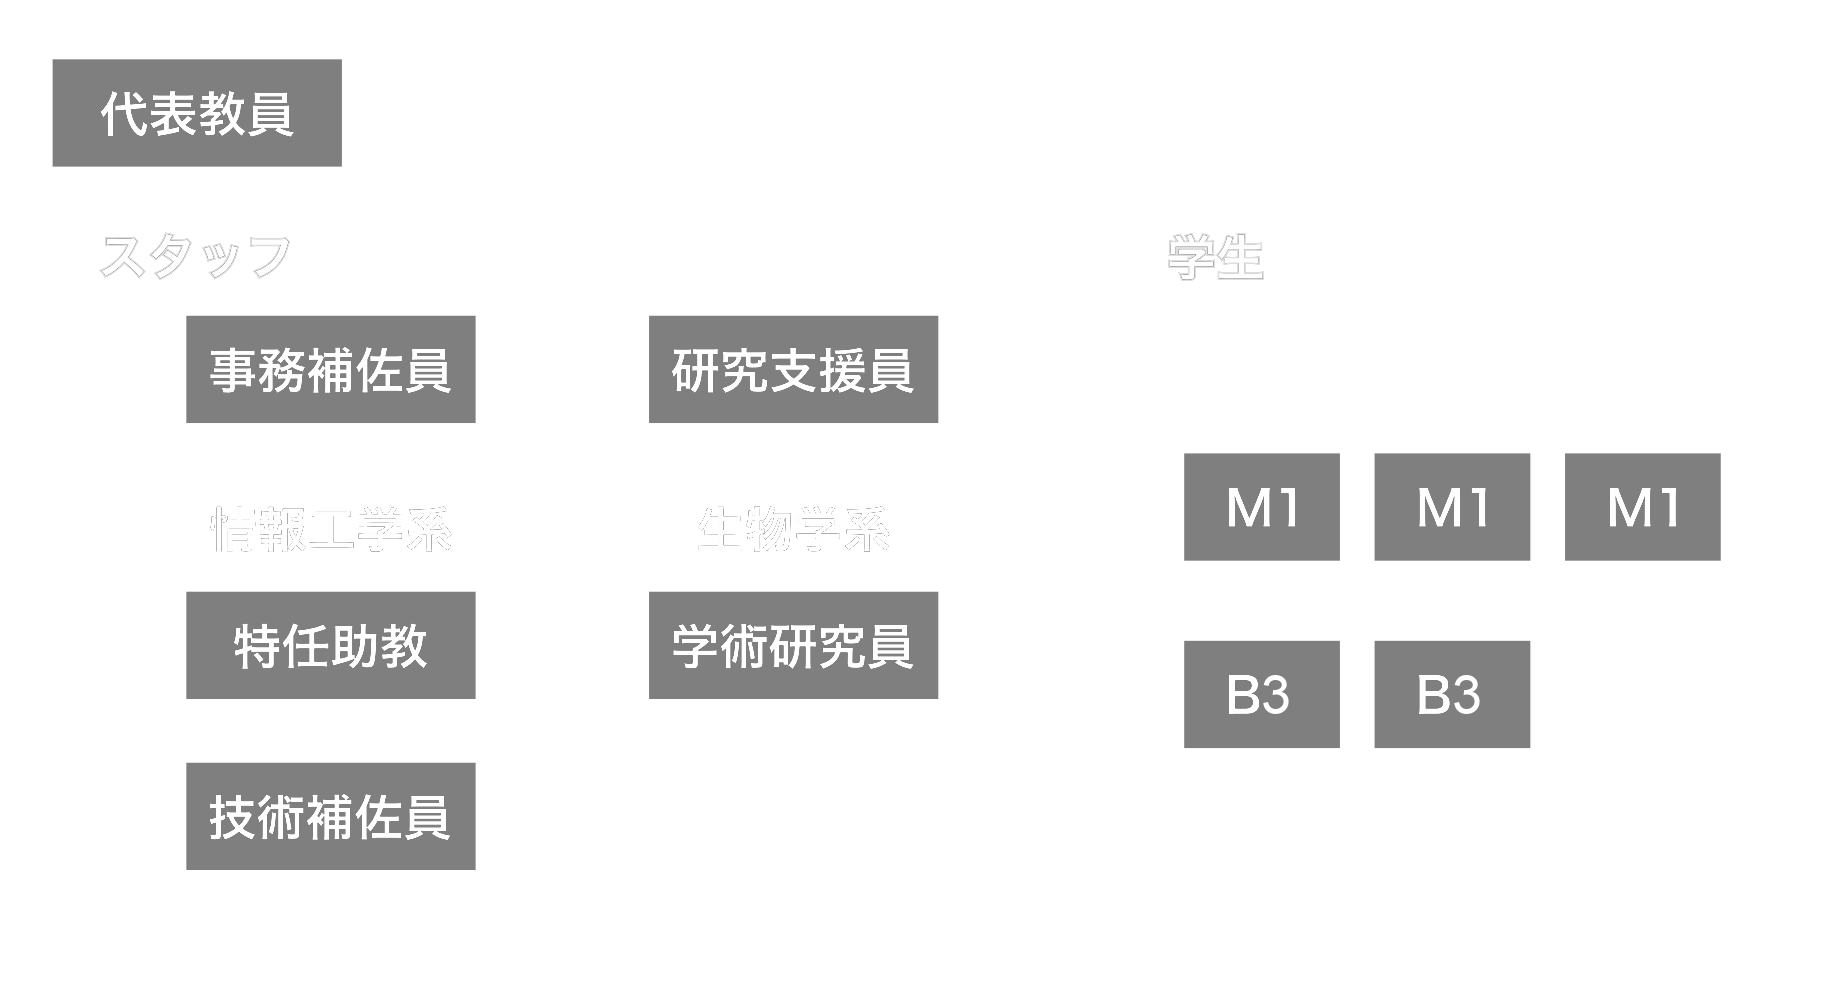
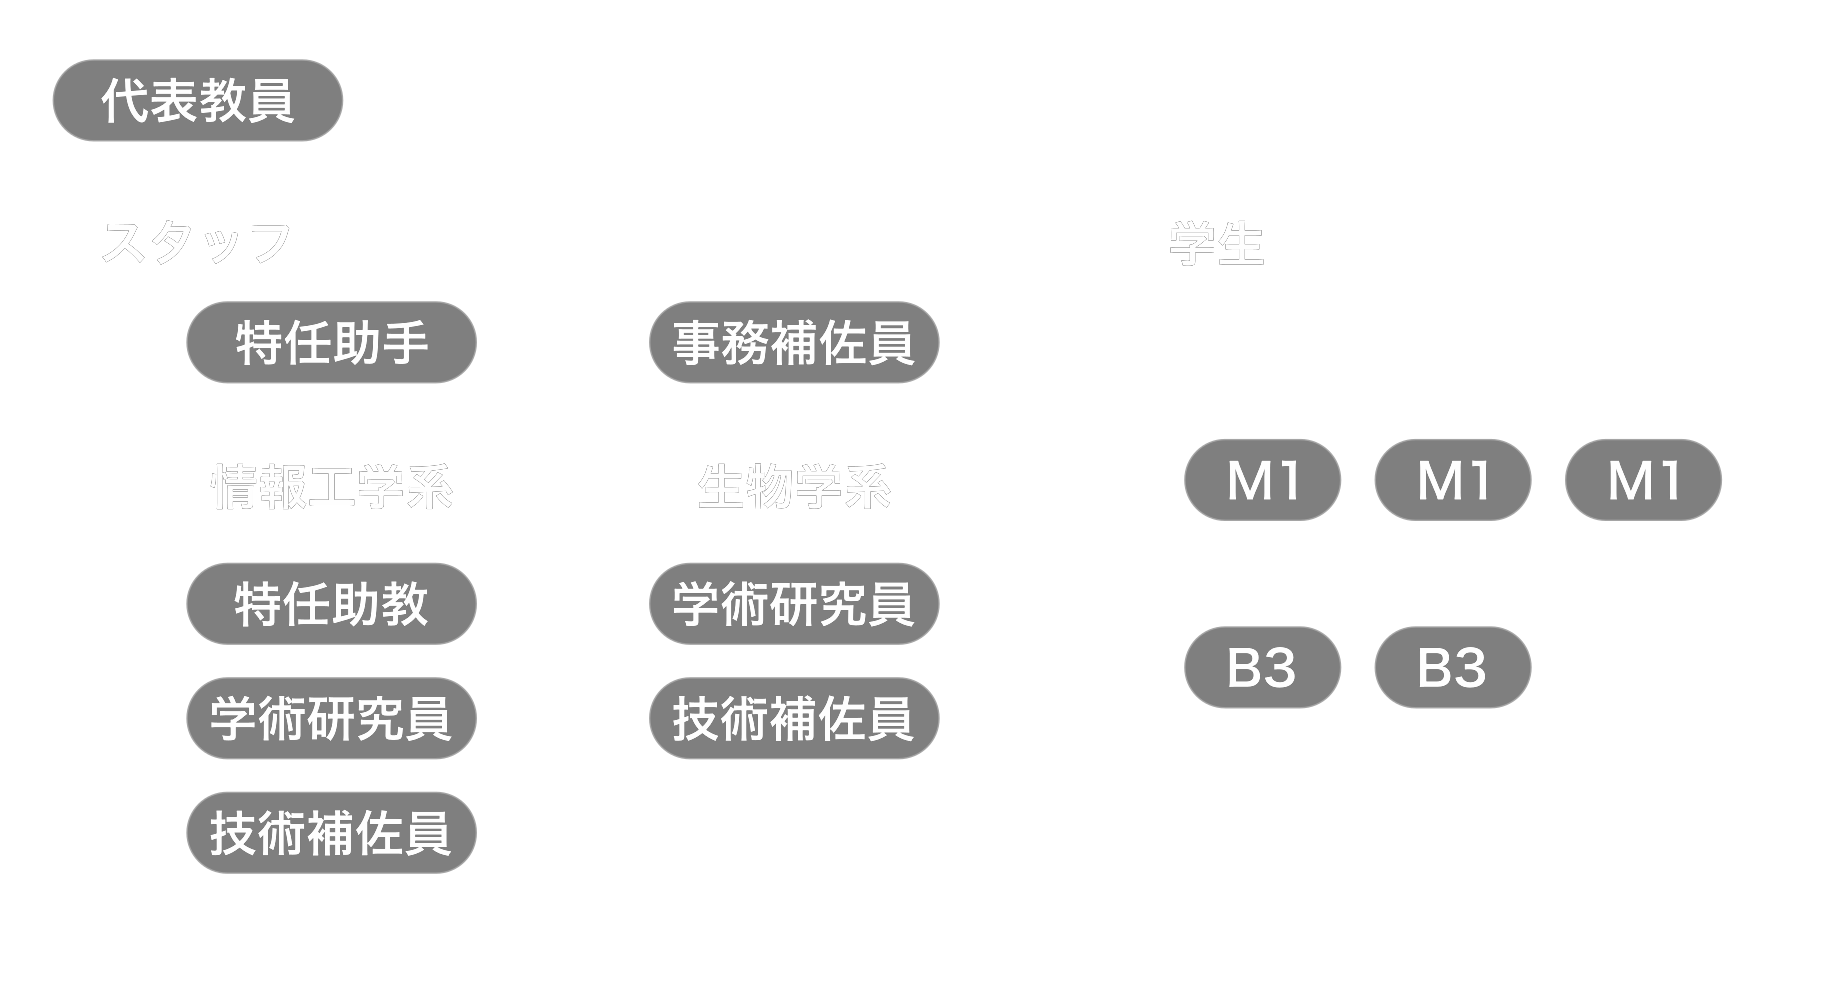
Update member chart (rounded design, B3)

diff --git a/index.html b/index.html
@@ -309,7 +309,7 @@
         <div class="col">
           <!-- フル版準拠: 透過PNGの背後にbackdrop-filterの磨りガラス層を敷く -->
           <div class="member-glass">
-            <img src="images/member.png?v=20260713a" alt="ラボメンバー">
+            <img src="images/member.png?v=20260730b" alt="ラボメンバー">
           </div>
         </div>
       </div>
